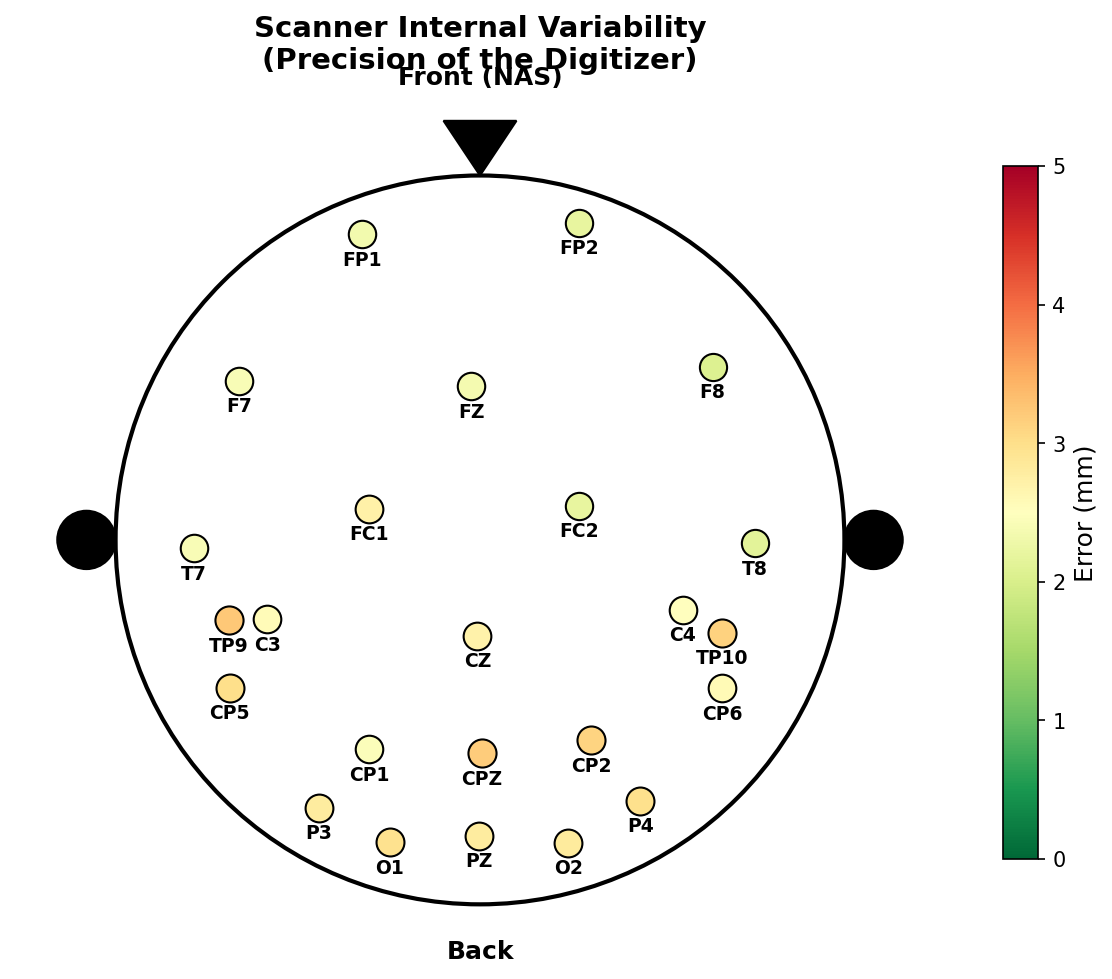
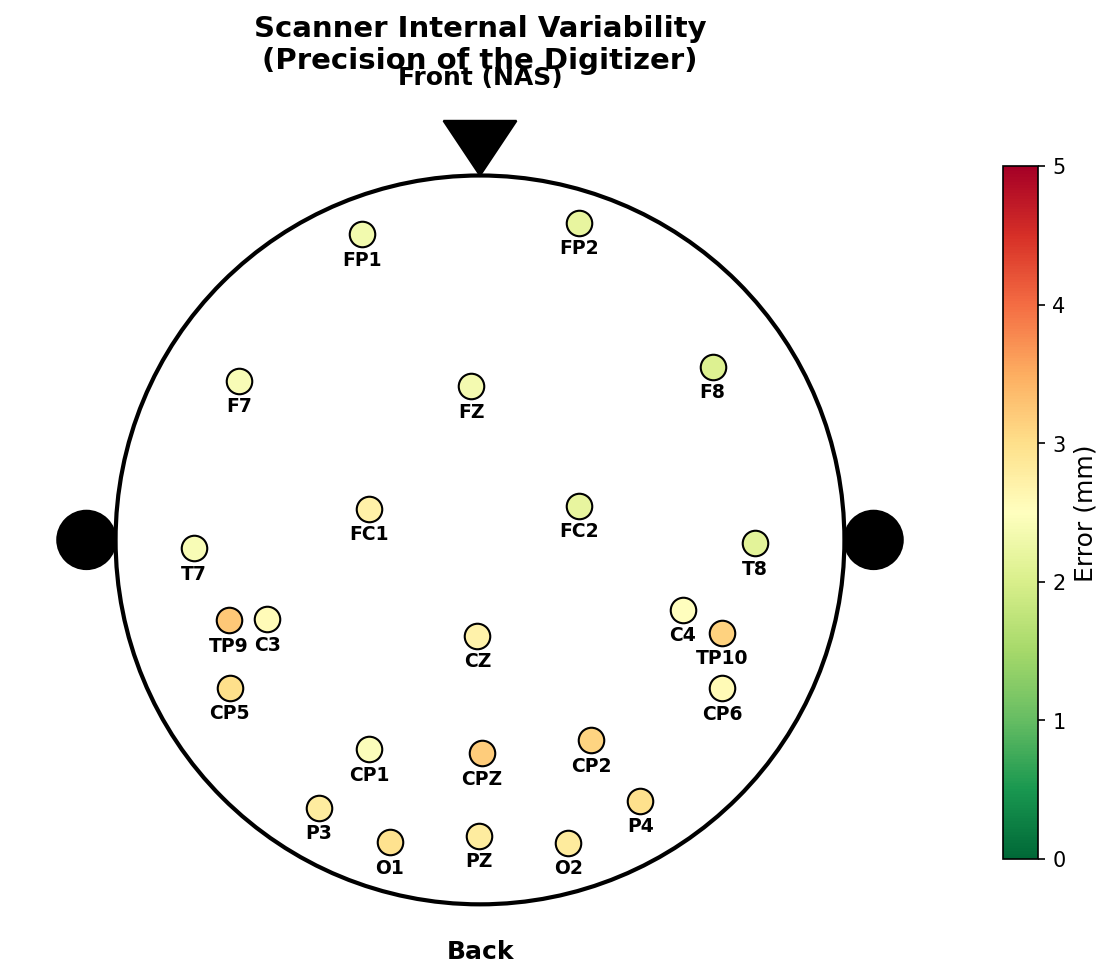
Refactor plot size calculation and update plot titles for clarity; replace binary image files with updated versions.

diff --git a/scripts/Pipeline_analysis_compare_ground_truth.py b/scripts/Pipeline_analysis_compare_ground_truth.py
@@ -210,7 +210,7 @@ def plot_top_view_head_map(accuracy_errors, scanner_mean, output_dir, title="Map
 
             norm_error = min(error / vmax, 1.0)
             color = cmap(norm_error)
-            size = 150 + (error * 10) 
+            size = 150
 
             ax.scatter(x_plot, y_plot, c=[color], s=size, edgecolors='black', linewidths=1, zorder=5)
             ax.annotate(label, (x_plot, y_plot), xytext=(0, -15), textcoords="offset points", 
@@ -346,7 +346,7 @@ def main():
     # Plot 5: Pipeline Variability Head Map
     p_vars = {k: v['mean_distance'] for k, v in p_variability.items() if k not in LANDMARKS}
     plot_top_view_head_map(p_vars, p_mean, OUTPUT_DIR, 
-                           title="Pipeline Internal Variability\n(Where is the jitter?)", 
+                           title="Pipeline Internal Variability", 
                            filename="pipeline_variability_map.png")
 
     print(f"All 5 validation plots saved to {OUTPUT_DIR}")
